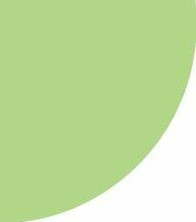
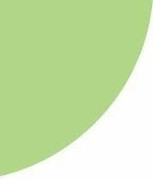
Second part added

Changed region(s): [[0.0, 0.0, 1.0, 1.0]]

diff --git a/index.html b/index.html
@@ -24,6 +24,18 @@
     
     </div>
 </section>
+<section class="dream-big">
+    <div class="half-width">
+        <img src="images/1.png" alt="">
+    </div>
+    <div class="half-width">
+        <h1>Dream Big</h1>
+        <h2>Become a Web Developer</h2>
+        <p>Lorem ipsum dolor sit amet consectetur adipisicing elit. Quae libero et fuga laudantium culpa repellat consequatur magni impedit ipsam laborum, inventore, aliquid nemo voluptates est.</p>
+        <a class="link-button" target="_blank" href="https://www.linkedin.com/in/dipika-salam-a6b9271b0/">Download Resume</a>
+
+    </div>
+</section>
 
 </body>
 </html>

diff --git a/style.css b/style.css
@@ -10,10 +10,11 @@ h1{
 }
 section{
     display: flex;
+    margin-bottom: 100px;
 }
 .half-width{
     width:50%;
-    padding-left:5%;
+    padding-left:10%;
 }
 .half-width img{
 width:70%;
@@ -29,4 +30,12 @@ width:70%;
 .top-banner{
     background-image:url(images/half-circle.jpg);
     background-repeat: no-repeat;
+
+}
+.dream-big{
+    padding-right: 10%;
+    background-image: url(images/2green.jpg);
+    background-repeat: no-repeat;
+    background-position:right center;
+    background-size:20rem;
 }
